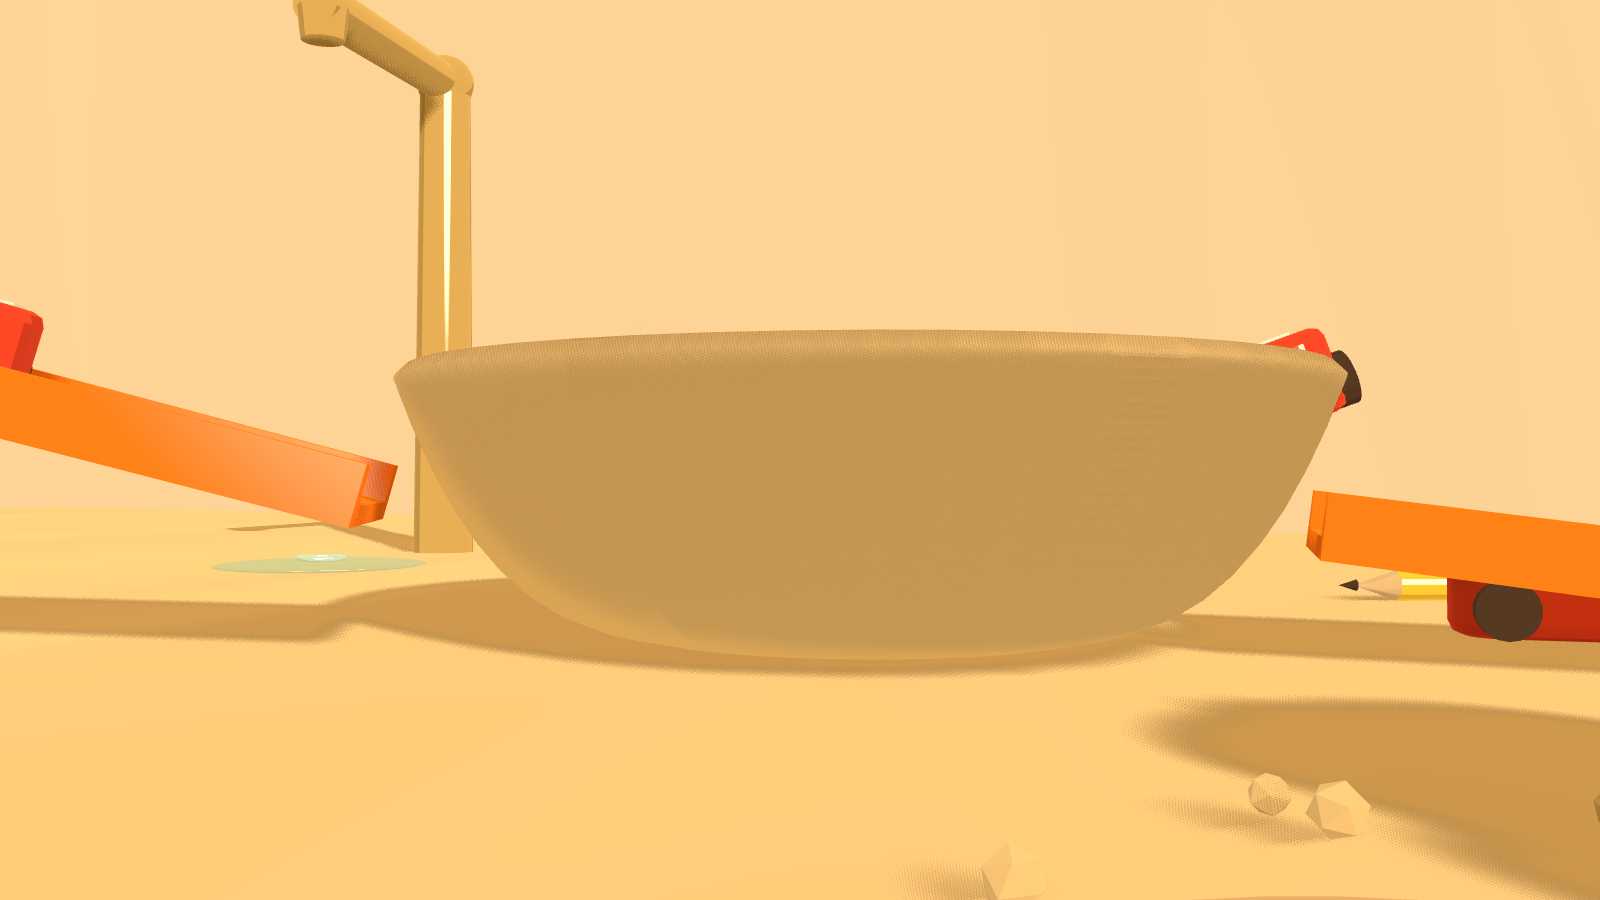
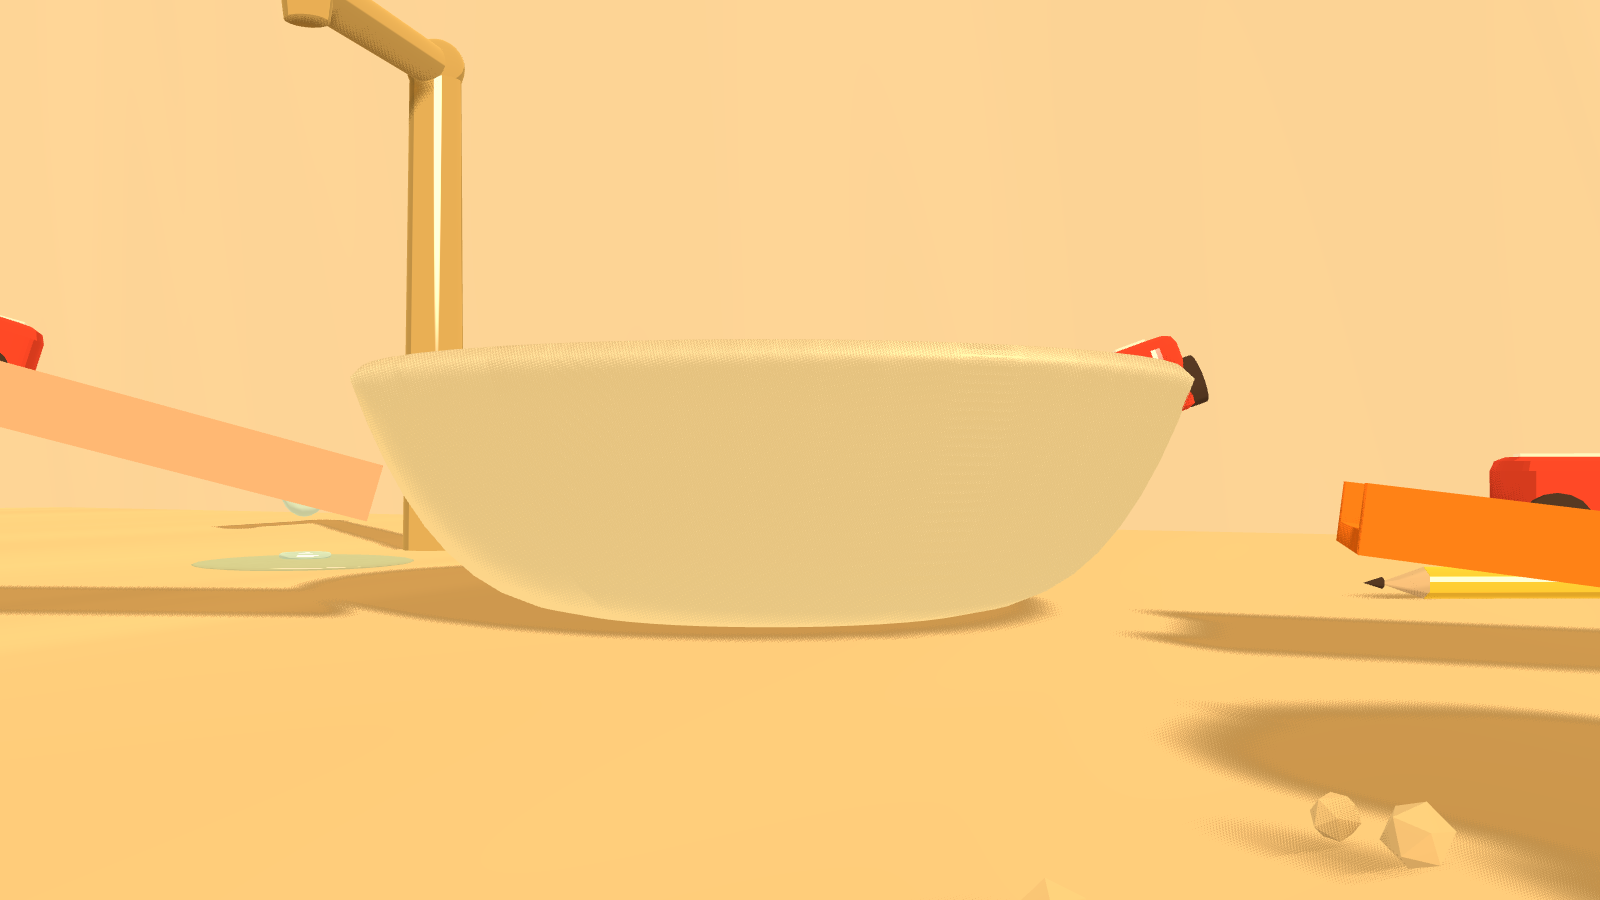
stage 1: environment artist B - bowl interior warmth, milk line raised into hero view, vignette scale

diff --git a/src/dev/scenes/kitchen-b.ts b/src/dev/scenes/kitchen-b.ts
@@ -105,7 +105,7 @@ function bookStack(): THREE.Group {
     toyBlock(0.17, 0.019, 0.125, 0.004, 0.0015),
     paintedWood(tokens, '#D9883B', { ...fillOver(), grain: 0.5 }),
   )
-  ramp.position.set(0.005, y + 0.023, 0.012)
+  ramp.position.set(0.005, y + 0.015, 0.012)
   ramp.rotation.x = -0.24
   ramp.rotation.y = -0.1
   props(ramp)
@@ -316,42 +316,48 @@ function kitchenScene(): SceneFactory {
     wall.receiveShadow = true
     scene.add(wall)
 
+    // everything that tells the story lives in one group, scaled to fill the
+    // canonical frames without touching the shared camera rigs
+    const vignette = new THREE.Group()
+    vignette.scale.setScalar(1.06)
+    scene.add(vignette)
+
     // monumental cereal bowl — the banked turn. The flared rim self-shadows
     // the wall below it; the bowl's shadow band is set to a bright warm gold
     // so that band reads as ceramic in shade, never grey.
-    const bowlMat = ceramic(tokens, '#E5C187', {
+    const bowlMat = ceramic(tokens, '#F0DDB2', {
       ...fillOver(),
-      shadowTint: '#F5C97E',
-      ramp: { steps: [0.78, 1.0], thresholds: [0.12], softness: 0.1 },
+      shadowTint: '#FFDFA8',
+      ramp: { steps: [0.88, 1.0], thresholds: [0.12], softness: 0.1 },
       specular: { size: 0.55, strength: 0.22 },
-      diffuseStrength: 0.92,
+      diffuseStrength: 1.15,
     })
     bowlMat.side = THREE.DoubleSide
     const bowl = new THREE.Mesh(bowlForm(0.098, 0.054, 0.005), bowlMat)
     props(bowl)
-    bowl.position.set(0.01, 0, -0.01)
-    scene.add(bowl)
+    bowl.position.set(-0.035, 0, -0.045)
+    vignette.add(bowl)
 
     // a second car, on the ramp, caught mid-descent
     {
       const runner = car()
       const a = new THREE.Vector3(-0.24, 0.09, 0.22)
-      const b = new THREE.Vector3(-0.06, 0.024, 0.06)
+      const b = new THREE.Vector3(-0.1, 0.022, 0.022)
       runner.position.lerpVectors(a, b, 0.62)
-      runner.position.y += 0.006
+      runner.position.y += 0.004
       const d = b.clone().sub(a).normalize()
       runner.lookAt(runner.position.x + d.x, runner.position.y + d.y, runner.position.z + d.z)
       runner.rotateY(-Math.PI / 2)
-      scene.add(runner)
+      vignette.add(runner)
     }
 
     // milk settled in the bottom, with a few cereal rings floating
     const milk = new THREE.Mesh(
-      new THREE.CylinderGeometry(0.066, 0.06, 0.003, 40),
+      new THREE.CylinderGeometry(0.062, 0.058, 0.003, 40),
       liquid(tokens, '#F7EFDE', { ...fillOver(), opacity: 0.95, liquid: 0.08 }),
     )
-    milk.position.set(0.01, 0.02, -0.01)
-    scene.add(milk)
+    milk.position.set(-0.035, 0.032, -0.045)
+    vignette.add(milk)
     const rings = new THREE.InstancedMesh(
       new THREE.TorusGeometry(0.0055, 0.0024, 8, 18),
       fabric(tokens, '#E8B063', fillOver()),
@@ -363,75 +369,75 @@ function kitchenScene(): SceneFactory {
       for (let i = 0; i < 6; i++) {
         const a = rnd() * Math.PI * 2
         const r = 0.012 + rnd() * 0.042
-        d.position.set(0.01 + Math.cos(a) * r, 0.023, -0.01 + Math.sin(a) * r)
+        d.position.set(-0.035 + Math.cos(a) * r, 0.035, -0.045 + Math.sin(a) * r)
         d.rotation.set(-Math.PI / 2 + (rnd() - 0.5) * 0.5, 0, rnd() * 3)
         d.updateMatrix()
         rings.setMatrixAt(i, d.matrix)
       }
     }
     props(rings)
-    scene.add(rings)
+    vignette.add(rings)
 
     // a third car, racing out along the flat run — floor-camera's hero
     {
       const racer2 = car()
-      racer2.position.set(0.145, 0.0045, -0.043)
-      racer2.lookAt(0.145 + 0.96, 0.0041, -0.043 - 0.25)
+      racer2.position.set(0.145, 0.0185, -0.043)
+      racer2.lookAt(0.145 + 0.96, 0.0165, -0.043 - 0.25)
       racer2.rotateY(-Math.PI / 2)
-      scene.add(racer2)
+      vignette.add(racer2)
     }
 
     // the car riding the bowl's banked rim — the story of the tile
     const racer = car()
     const psi = -Math.PI * 0.15
-    const rx = 0.01 + Math.cos(psi) * 0.088
-    const rz = -0.01 + Math.sin(psi) * 0.088
+    const rx = -0.035 + Math.cos(psi) * 0.088
+    const rz = -0.045 + Math.sin(psi) * 0.088
     racer.position.set(rx, 0.045, rz)
     racer.lookAt(rx - Math.sin(psi) * 0.06, 0.045, rz + Math.cos(psi) * 0.06)
     racer.rotateY(-Math.PI / 2)
     racer.rotateX(0.35)
-    scene.add(racer)
+    vignette.add(racer)
 
     // book-stack ramp up-left behind the bowl, with the orange track down
     const books = bookStack()
     books.position.set(-0.27, 0, 0.17)
     books.rotation.y = 0.42
-    scene.add(books)
+    vignette.add(books)
 
     const trackMat = trackPlastic(tokens, GLOBAL_TOKENS.trackOrange, { ...fillOver(), toy: 0.2 })
-    const rampTrack = trackRun(new THREE.Vector3(-0.24, 0.09, 0.22), new THREE.Vector3(-0.06, 0.024, 0.06), trackMat)
-    scene.add(rampTrack)
+    const rampTrack = trackRun(new THREE.Vector3(-0.24, 0.09, 0.22), new THREE.Vector3(-0.1, 0.022, 0.022), trackMat)
+    vignette.add(rampTrack)
     const flatTrack = trackRun(new THREE.Vector3(0.095, 0.02, -0.03), new THREE.Vector3(0.21, 0.005, -0.06), trackMat)
-    scene.add(flatTrack)
+    vignette.add(flatTrack)
 
     // mug with its ring, toast soldier leaning on the mug
     const mugG = mug()
     mugG.position.set(0.24, 0, 0.13)
     mugG.rotation.y = -1.7
-    scene.add(mugG)
+    vignette.add(mugG)
     const ring = new THREE.Mesh(
       new THREE.TorusGeometry(0.034, 0.0032, 8, 40),
       liquid(tokens, '#B98A5C', { ...fillOver(), opacity: 0.55, liquid: 0 }),
     )
     ring.rotation.x = -Math.PI / 2
     ring.position.set(0.155, 0.0022, 0.185)
-    scene.add(ring)
+    vignette.add(ring)
     const soldier = toast()
     soldier.position.set(0.207, 0.024, 0.113)
     soldier.rotation.set(-0.05, -0.75, -0.5)
-    scene.add(soldier)
+    vignette.add(soldier)
     const crumbTrail = crumbs()
     crumbTrail.position.set(0.17, 0, 0.13)
-    scene.add(crumbTrail)
+    vignette.add(crumbTrail)
 
     // the dripping tap, frozen mid-drip, up-left rear; wet patch + splash
     const tapG = tap()
     tapG.position.set(-0.31, 0, -0.2)
     tapG.rotation.y = -1.2
-    scene.add(tapG)
+    vignette.add(tapG)
     const patch = wetPatch()
     patch.position.set(-0.271, 0, -0.1)
-    scene.add(patch)
+    vignette.add(patch)
 
     // folded mint cloth — the accent, catching the key
     const cloth = new THREE.Group()
@@ -445,16 +451,16 @@ function kitchenScene(): SceneFactory {
     c2.rotation.y = 0.25
     props(c2)
     cloth.add(c2)
-    cloth.position.set(0.35, 0, -0.04)
+    cloth.position.set(0.30, 0, 0.02)
     cloth.rotation.y = 0.35
-    scene.add(cloth)
+    vignette.add(cloth)
 
     // a second pencil, lying across the counter — lived-in, and it leads
     // the floor camera toward the bowl
     const lazyPencil = pencilProp()
     lazyPencil.position.set(0.14, 0.0043, -0.19)
     lazyPencil.rotation.set(Math.PI / 2, 0, 1.0)
-    scene.add(lazyPencil)
+    vignette.add(lazyPencil)
 
     // Tell every ToonMaterial the key light so dark bands tint, not blacken.
     scene.traverse((obj) => {
